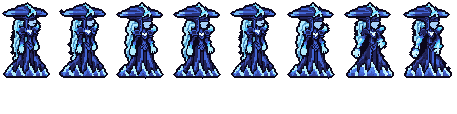
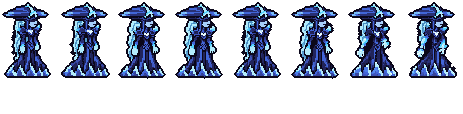
丽桑卓跑步：8 帧用同一个头，脸在冠下不再上下滑 2-3 格（用户：「感觉你说的丽桑卓那几个问题还是得修」）
- Codex 的跑步画了两种头：run_1 那张（游戏里第 0、1、4 帧）和设计图一样；run_2、run_3 两张（第 2、3、5、6、7 帧）脸高一行、上面的兜帽带也高一行、冠尖高一行、胸口低 3 行。所以每圈脸在冠下面上下滑 2-3 格。
- 现在 8 帧都是同一个头（RUN_HEAD / run_head）：冠用 run_6 的（它的冠尖高一行，所以人还是 76 行高）；冠下的兜帽带、脸和下巴用 run_1 的。脸和设计图、和她其他动作一样，摆在 run_6 的冠下面。每帧冠尖对齐帧顶，横向对齐这帧自己冠的位置。之前第 6、7 帧借第 5 帧头的那个修法（HEAD_FROM run_6）被这个代替了。
- 脖子不拉长也不压扁，胸口都留在原画的位置：run_1 那三帧的领口短一行；另外五帧的领口长两行——它们自己原来的下巴轮廓那一行（新下巴下面一行），照上面一行的领口颜色画成领口（RUN_COLLAR），只改黑格。
- 改了跑步 8 帧（hd_ / lo_ / 1 倍），身高照旧 76 行，冠每帧 47 格、冠顶每帧都在支点上方 55 行。第 0、4、7 帧变宽了，.fanim 变了，league.dll 要重编。CI 的 53 项 python 检查、hero_reels --check、run_body_anim --check 都过。

diff --git a/tools/art/casts_lissandra_hd.py b/tools/art/casts_lissandra_hd.py
@@ -7,9 +7,9 @@ at her design (the user, 2026-11-03: 「继续加四个 魔腾 凯南 剑魔 丽
 hd/casts holds Codex's 25 sheets (each its chosen raw generation byte for byte, redos included), drawn on a
 near-white ground: casts_rengar_hd.figure keys it off. Each frame's zoom (FRAME_ZOOM, --fit) reads her STAND rows tall,
 the top of her crown to her hem as the design, and of the zooms that do, the one nearest to what her CROWN gives (see
-FRAME_ZOOM), so her body and her crown are the design's size in every frame; HEAD_FROM gives frames another frame's
-head and HAIR_UP carries R-on-herself's hair up to the hood; DEAD_PAINT lays her own shades over the black hole Codex
-left under the crown in the death's 5-8.
+FRAME_ZOOM), so her body and her crown are the design's size in every frame; the glide has one head (RUN_HEAD);
+HEAD_FROM gives frames another frame's head and HAIR_UP carries R-on-herself's hair up to the hood; DEAD_PAINT lays
+her own shades over the black hole Codex left under the crown in the death's 5-8.
 The old frame's body (its box places the new frame) leaves out what the old sheet baked in, the ice shards and frost by
 her hands: only what lies within two pixels of the dark outline counts (OLD_BODY). Each frame is then placed where the
 old body stood: its box's middle on the old box's middle and its bottom on the old box's bottom, from the pivot, on the
@@ -66,15 +66,22 @@ PIVOT = 25                      # the design's column on the old idle_base's piv
 # again (the old death ends frozen, the pillars taller each frame): 7-8 hold frame 6, so the death ends frozen
 HELD = {"dead_7": "dead_6", "dead_8": "dead_6"}
 # frames whose head is another frame's (head_from: the crown and, under its brim, the visor and the face, laid where
-# the design's crown fits each): Codex drew the glide's 7-8 with a black blot round the face (its "eyes in the
-# crown's shadow") and a crown two squares wider at her height; tools/art/thin_outline.py ate into the blot, open to
-# the ground beside the face, and left holes and specks there (the user, 2026-11-16: 「丽桑卓头那里失去像素了」
-# 「丽桑卓也有莫名其妙阴影的部分」). Glide 6 is drawn the same way under the brim (the face as low), clean: frames 6-8 share it
-HEAD_FROM = {"run_7": "run_6", "run_8": "run_6",
-             # R on herself (2026-11-17, 「感觉你说的丽桑卓那几个问题还是得修」): Codex's ult_self_1 / ult_self_2 (frames 0-2
-             # and 4) put a short face under a six-row black visor, the mask far darker than in her other frames; its
-             # ult_self_4 (frame 3) has the face as the design, under a navy hood, and the chin on the same row
-             **{f"ult_self_{k}": "ult_self_4" for k in (1, 2, 3, 5)}}
+# the design's crown fits each). R on herself (2026-11-17, 「感觉你说的丽桑卓那几个问题还是得修」): Codex's ult_self_1 /
+# ult_self_2 (frames 0-2 and 4) put a short face under a six-row black visor, the mask far darker than in her other
+# frames; its ult_self_4 (frame 3) has the face as the design, under a navy hood, and the chin on the same row
+HEAD_FROM = {f"ult_self_{k}": "ult_self_4" for k in (1, 2, 3, 5)}
+# The glide's one head (run_head; 2026-11-17, the user: 「感觉你说的丽桑卓那几个问题还是得修」). Codex drew two: its run_1
+# sheet (frames 0, 1, 4) the design's, its run_2 / run_3 sheets (frames 2, 3, 5-7) a face a row taller under a hood
+# band a row taller, the crown's tip a row taller and the chest three rows lower, so the face slid 2-3 squares up and
+# down under the crown; its run_7 / run_8 also had a black blot round the face that tools/art/thin_outline.py ate into
+# holes and specks (2026-11-16: 「丽桑卓头那里失去像素了」「丽桑卓也有莫名其妙阴影的部分」). Every frame now has one head:
+# run_6's crown (its taller tip keeps her 76 rows) and, under it, run_1's hood band, face and chin (the design's, as in
+# her other actions) on run_6's crown (RUN_HEAD: crown, face; RUN_HEAD_BOXES: design rows and columns of the face's),
+# laid with its tip on each frame's top. The chests stay as drawn: the run_1 sheet's collar a row shorter, the others'
+# two rows longer - their own chin's outline under the new chin drawn as the collar above it (RUN_COLLAR)
+RUN_HEAD = ("run_6", "run_1")
+RUN_HEAD_BOXES = ((14, 18, 8, 38), (18, 22, 21, 38), (22, 26, 21, 33))
+RUN_COLLAR = ("run_3", "run_4", "run_6", "run_7", "run_8")
 # R on herself also leaves two black rows between the hood's band and her hair on her left, the mask's left half
 # twice as tall as in her other frames: the hair of the row under them carried up (HAIR_UP: design rows, the row the
 # hair is taken from, columns), outline squares only
@@ -316,6 +323,9 @@ def placed():
         out[n] = thrown(n, *out[n])
     for n, src in HEAD_FROM.items():
         out[n] = head_from(*out[n], out[src][0])
+    head = run_head(out[RUN_HEAD[0]][0], out[RUN_HEAD[1]][0])
+    for n in [n for n in out if n.rsplit("_", 1)[0] == "run"]:
+        out[n] = lay_run_head(*out[n], head, collar=n in RUN_COLLAR)
     for n, spec in HAIR_UP.items():
         out[n] = (hair_up(out[n][0], spec), out[n][1], out[n][2])
     for n in [n for n in out if HELD.get(n, n) in DEAD_PAINTED]:
@@ -393,6 +403,59 @@ def _box(shape, b, oy, ox):
     m = np.zeros(shape[:2], bool)
     m[max(0, b[0] + oy):max(0, b[1] + oy), max(0, b[2] + ox):max(0, b[3] + ox)] = True
     return m
+
+
+def run_head(crown_src, face_src, pad=4):
+    """(picture, mask, top row, crown fit column): the glide's one head (RUN_HEAD) - crown_src's rows down to its
+    crown's last row across the crown's columns, and face_src's RUN_HEAD_BOXES (from its own crown) laid on
+    crown_src's crown."""
+    cy, cx = crown_fit(crown_src)
+    fy, fx = crown_fit(face_src)
+    H, W = crown_src.shape[0], crown_src.shape[1] + 2 * pad
+    head = np.zeros((H, W, 4), np.uint8)
+    mask = np.zeros((H, W), bool)
+    last = cy + CROWN_ROWS
+    c0, c1 = max(0, cx + CROWN_SPAN[0]), min(crown_src.shape[1], cx + CROWN_SPAN[1])
+    head[:last, c0 + pad:c1 + pad] = crown_src[:last, c0:c1]
+    mask[:last, c0 + pad:c1 + pad] = True
+    for r0, r1, b0, b1 in RUN_HEAD_BOXES:
+        for r in range(r0, r1):
+            for c in range(b0, b1):
+                sy, sx = r + fy, c + fx
+                ty, tx = r + cy, c + cx + pad
+                if 0 <= sy < face_src.shape[0] and 0 <= sx < face_src.shape[1] and 0 <= ty < H and 0 <= tx < W:
+                    head[ty, tx] = face_src[sy, sx]
+                    mask[ty, tx] = True
+    top = int(np.nonzero((head[..., 3] > 0).any(1))[0].min())
+    return head, mask, top, cx + pad
+
+
+def lay_run_head(pic, x, y, head, collar=False):
+    """(picture, x, y): the frame with the glide's head (run_head's) laid with its top on the frame's top and its
+    crown's column on the frame's (crown_fit); collar: an outline square under the head's last row, in the face's
+    columns, takes the head's square above it (the frame's own chin's outline drawn as the collar)."""
+    img, mask, top, hx = head
+    fy, fx = crown_fit(pic)
+    ftop = int(np.nonzero((pic[..., 3] > 0).any(1))[0].min())
+    pad = 4
+    out = np.zeros((pic.shape[0] + 2 * pad, pic.shape[1] + 2 * pad, 4), np.uint8)
+    out[pad:pad + pic.shape[0], pad:pad + pic.shape[1]] = pic
+    oy, ox = ftop - top + pad, fx - hx + pad
+    ys, xs = np.nonzero(mask)
+    ok = (ys + oy >= 0) & (ys + oy < out.shape[0]) & (xs + ox >= 0) & (xs + ox < out.shape[1])
+    out[ys[ok] + oy, xs[ok] + ox] = img[ys[ok], xs[ok]]
+    if collar:
+        r0, r1, b0, b1 = RUN_HEAD_BOXES[-1]
+        line = _cols(out, OUTLINE_COLS)
+        last = int(ys.max())                          # the head's last row
+        for c in range(b0, b1):
+            hc = c + hx                               # (the head's column for design column c)
+            Y, X = last + 1 + oy, hc + ox
+            if mask[last, hc] and img[last, hc, 3] > 0 and not _cols(img[last:last + 1, hc:hc + 1], OUTLINE_COLS)[0, 0] \
+                    and line[Y, X]:
+                out[Y, X] = img[last, hc]
+    yy, xx = np.nonzero(out[..., 3] > 0)
+    return out[yy.min():yy.max() + 1, xx.min():xx.max() + 1], x - pad + int(xx.min()), y - pad + int(yy.min())
 
 
 def hair_up(pic, spec):
